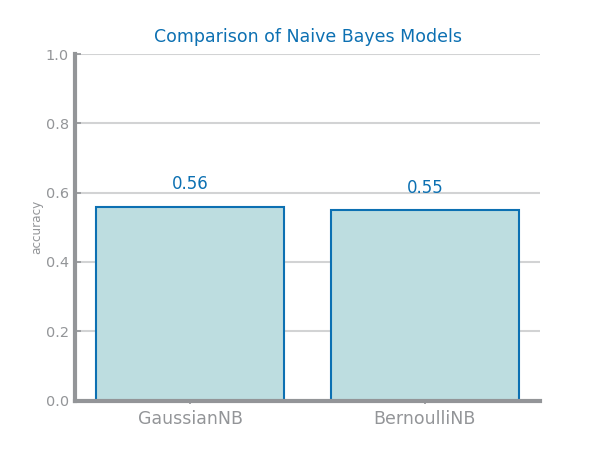
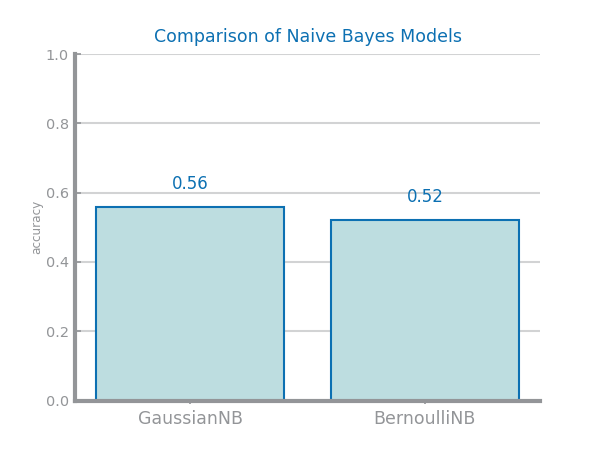
only 1 split

Changed region(s): [[0.54, 0.4044, 0.87, 0.4978]]

diff --git a/climate_domain/data_preparation/scalling.py b/climate_domain/data_preparation/scalling.py
@@ -117,8 +117,6 @@ df = read_csv('data/_scaled_zscore.csv')
 X = df.drop(columns=['class'])
 y = df['class'].values
 
-X_train, X_test, y_train, y_test = train_test_split(X, y, test_size=0.2, random_state=1, stratify=y)
-
 
 eval_metric = accuracy_score
 nvalues = [1, 3, 5, 7, 9, 11, 13, 15, 17, 19]
@@ -188,9 +186,6 @@ X = df.drop(columns=['class'])
 y = df['class'].values
 
 
-X_train, X_test, y_train, y_test = train_test_split(X, y, test_size=0.2, random_state=1, stratify=y)
-
-
 labels = unique(y_train)
 
 
@@ -231,9 +226,6 @@ df = read_csv('data/_scaled_zscore.csv')
 
 X = df.drop(columns=['class'])
 y = df['class'].values
-
-
-X_train, X_test, y_train, y_test = train_test_split(X, y, test_size=0.2, random_state=1, stratify=y)
 
 
 labels = unique(y_train)
